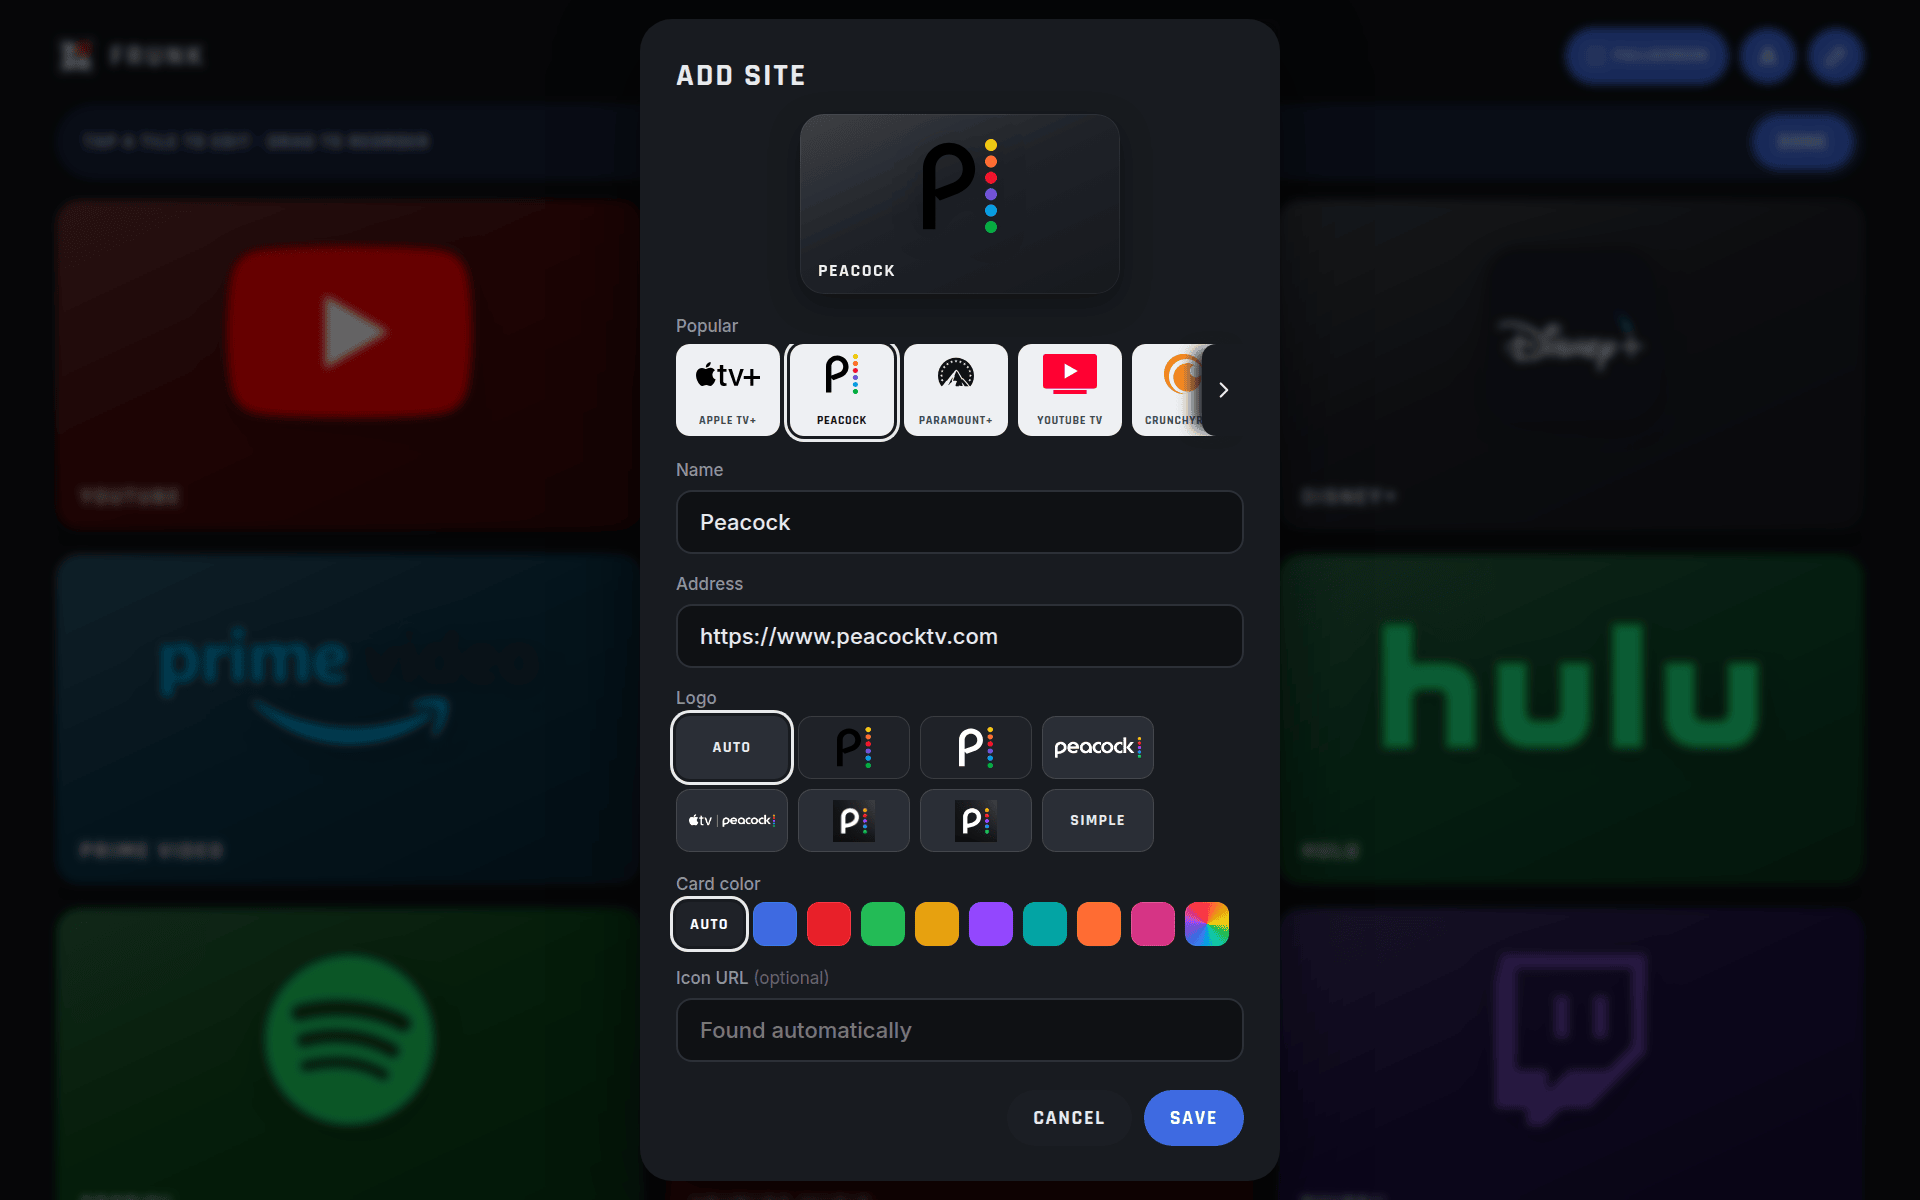
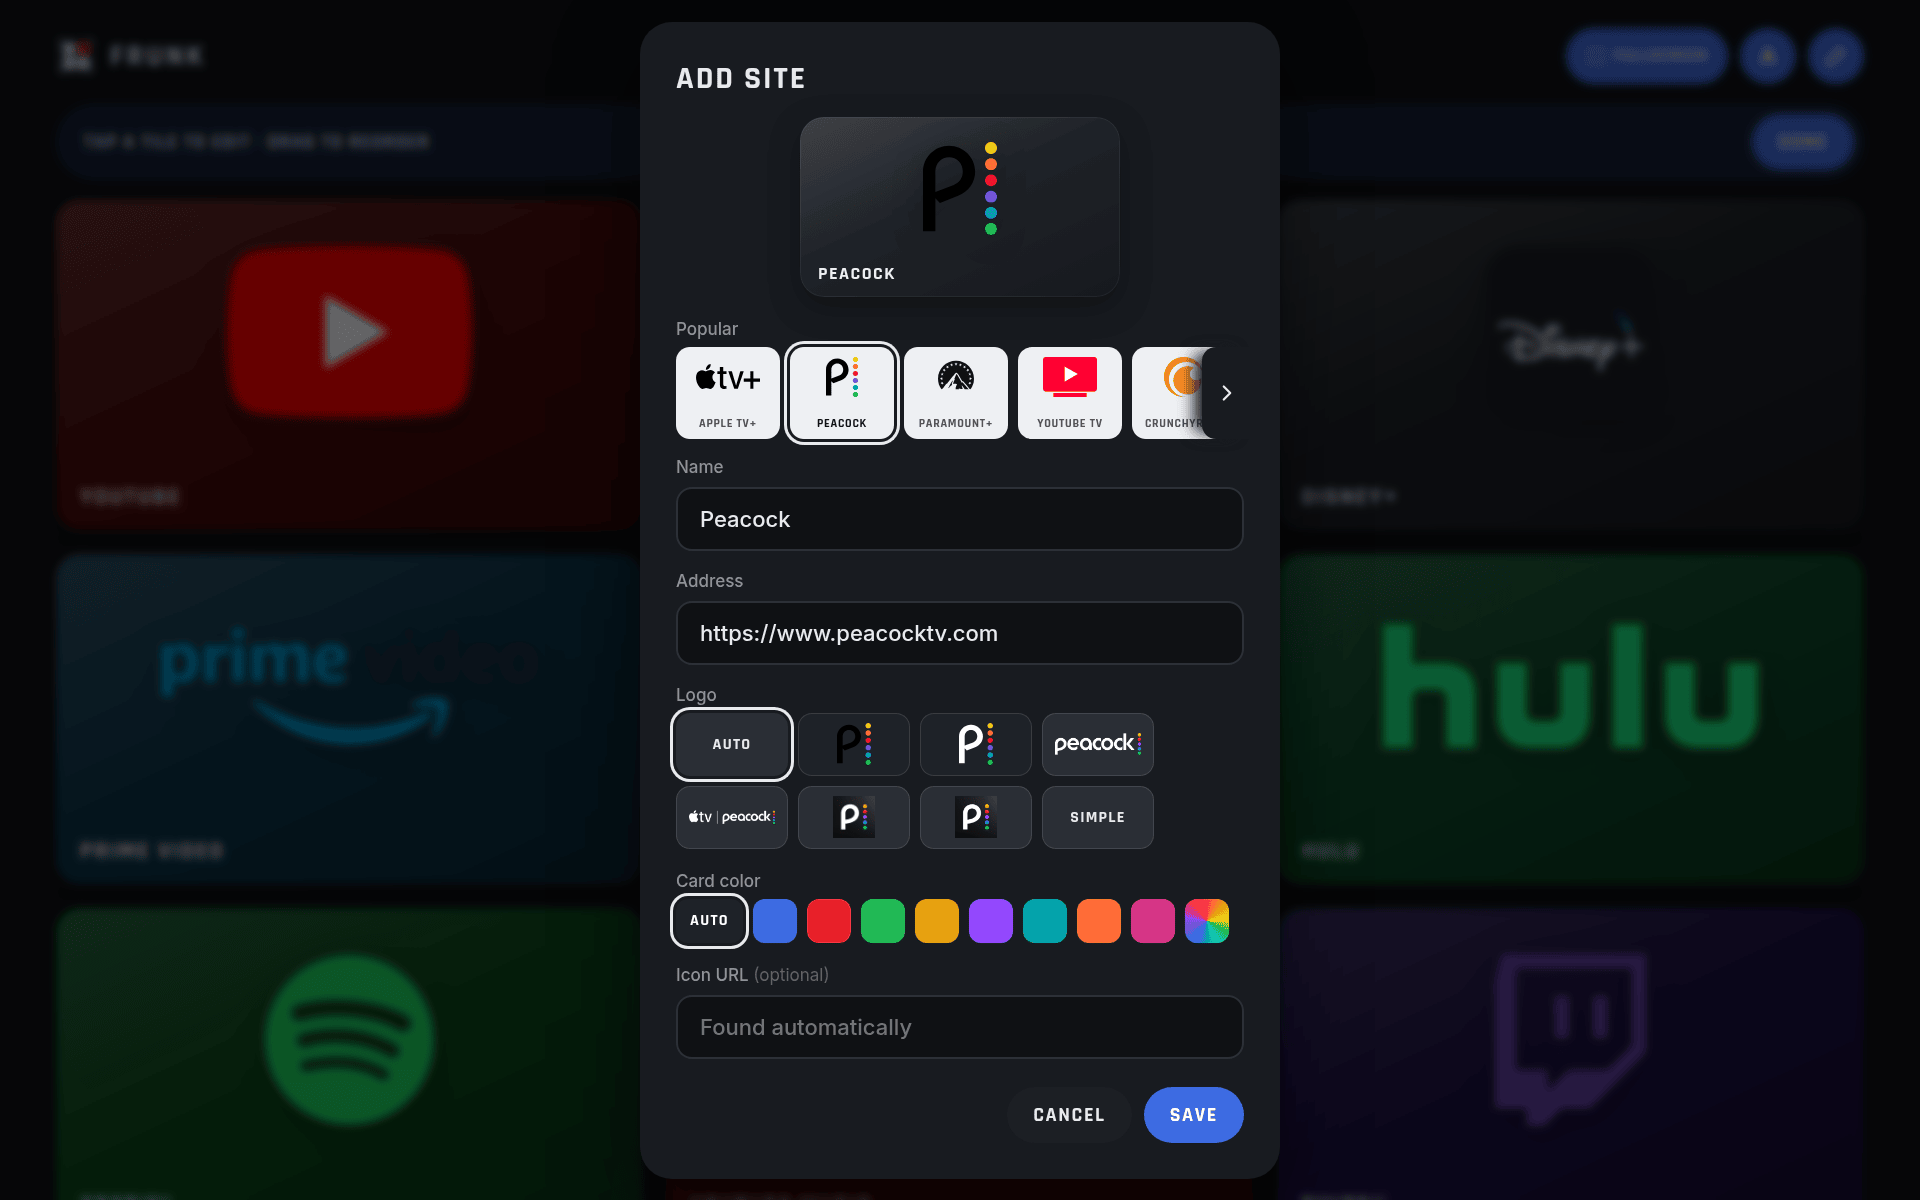
Stop clipping the selected quick pick's ring in Add site
The Popular row scrolls sideways, which also clips it vertically, so the
selection ring was cut off at the top. Pad the row to make room, and move
the arrows to match.

diff --git a/public/style.css b/public/style.css
@@ -301,7 +301,8 @@ dialog h2 { font-size: 32px; letter-spacing: .06em; }
 
 /* Quick picks in Add site */
 .quick-picks {
-  display: flex; gap: 10px; overflow-x: auto; padding-bottom: 6px; margin-bottom: 18px;
+  /* The padding leaves room for the selected chip's ring, which the scroller would clip */
+  display: flex; gap: 10px; overflow-x: auto; padding: 6px; margin: -6px -6px 12px;
   scrollbar-width: none;
 }
 .quick-picks::-webkit-scrollbar { display: none; }
@@ -324,14 +325,14 @@ dialog h2 { font-size: 32px; letter-spacing: .06em; }
 /* Popular row arrows */
 .quick-wrap { position: relative; }
 .quick-nav {
-  position: absolute; top: 0; z-index: 2;
-  width: 44px; height: 92px; padding: 0; border: 0;
+  position: absolute; top: 6px; z-index: 2; /* past .quick-picks padding */
+  width: 50px; height: 92px; padding: 0; border: 0;
   display: grid; place-items: center;
   font-size: 26px; color: var(--text);
   background: #181b20;
 }
-.quick-nav.prev { left: -2px; border-radius: 0 14px 14px 0; box-shadow: 14px 0 16px -6px #181b20; }
-.quick-nav.next { right: -2px; border-radius: 14px 0 0 14px; box-shadow: -14px 0 16px -6px #181b20; }
+.quick-nav.prev { left: -8px; border-radius: 0 14px 14px 0; box-shadow: 14px 0 16px -6px #181b20; }
+.quick-nav.next { right: -8px; border-radius: 14px 0 0 14px; box-shadow: -14px 0 16px -6px #181b20; }
 .quick-nav:hover { color: #fff; background: #23272e; }
 .quick-nav:active { background: #2a2e36; }
 
